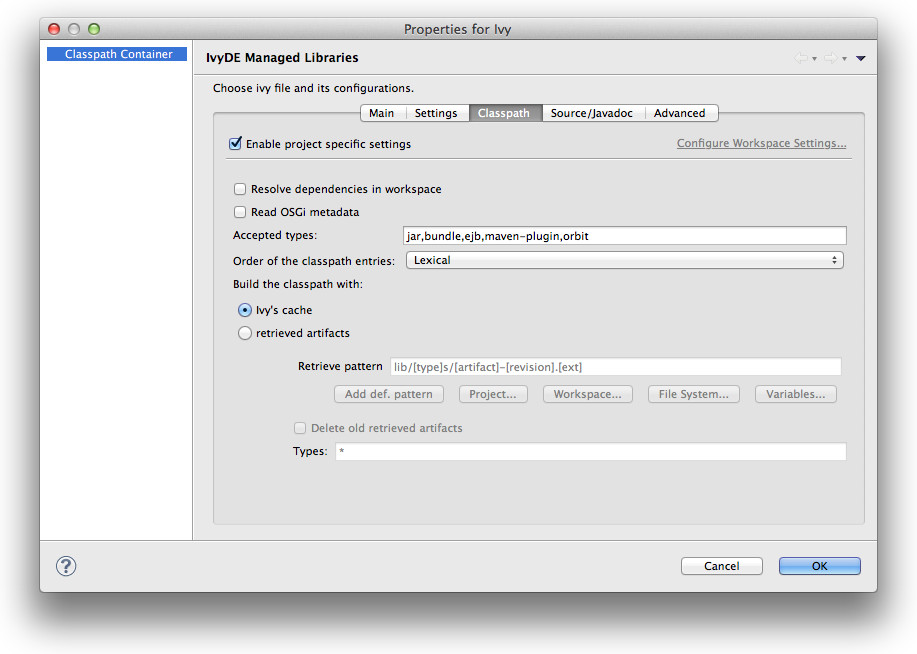
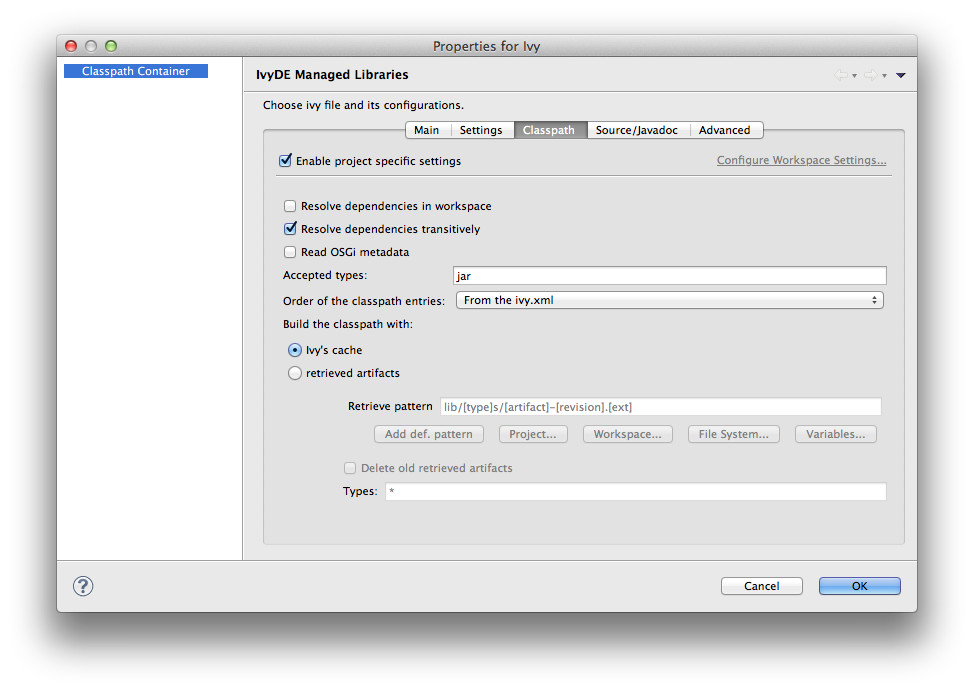
IVYDE-334: support of global transitivity disabling for resolving dependency (thanks to Anton Zagorulko)
git-svn-id: http://svn.apache.org/repos/asf/ant@1538256 13f79535-47bb-0310-9956-ffa450edef68

diff --git a/ivy/ivyde/trunk/doc/preferences.html b/ivy/ivyde/trunk/doc/preferences.html
@@ -61,8 +61,10 @@ The global configuration can be found in the preferences of Eclipse (menu Window
 
 <center><img src="images/pref_classpath.jpg"/></center>
 
-<h4>Resolve dependencies in workpace:</h4>
+<h4>Resolve dependencies in workspace:</h4>
 <p>Apache IvyDE allows Ivy dependencies between projects in the workspace to be realized through project references rather than jars from the repository.  See the <a href="cpc/workspace.html">documentation</a> for further information on this feature.</p>
+<h4>Resolve dependencies transitively</h4>
+<p>If unchecked, the dependencies will be resolved with transitivity disabled regardless to the settings in ivy.xml</p>
 <h4>Read OSGi metadata:</h4>
 <p>If your classpath is based on jars which are actually OSGi bundles, checking this option will make IvyDE read the jar manifests and setup the specific OSGi visibility constraints.</p>
 <h4>Accepted types:</h4>

diff --git a/ivy/ivyde/trunk/doc/release-notes.html b/ivy/ivyde/trunk/doc/release-notes.html
@@ -122,6 +122,7 @@ Here is the list of people who have contributed source code and documentation up
 <li>Nathan Summers</li>
 <li>Phillip Webb</li>
 <li>James Wilkins</li>
+<li>Anton Zagorulko</li>
 </ul>
 
 <h1><a name="changes"></a>List of Changes in this Release</h1>
@@ -136,6 +137,7 @@ List of changes since <a href="/ivy/ivyde/history/2.2.0.beta1/release-notes.html
     <li>NEW: Allow to set the Ivy user directory globally or project by project (IVYDE-311)</li>
     <li>NEW: Add support for the OSGi access rules</li>
     <li>NEW: Source and Javadoc attachements can now be edited jar by jar</li>
+    <li>NEW: Support of global transitivity disabling for resolving dependency (IVYDE-334) (thanks to Anton Zagorulko)</li>
 </ul>
 <ul>
     <li>IMPROVE: The properties file paths can now be edited</li>

diff --git a/ivy/ivyde/trunk/org.apache.ivyde.eclipse/src/java/org/apache/ivyde/internal/eclipse/ui/ClasspathSetupEditor.java b/ivy/ivyde/trunk/org.apache.ivyde.eclipse/src/java/org/apache/ivyde/internal/eclipse/ui/ClasspathSetupEditor.java
@@ -42,6 +42,8 @@ public class ClasspathSetupEditor extends Composite {
             + "Example: jar, zip";
 
     private Button resolveInWorkspaceCheck;
+    
+    private Button transitiveResolveCheck;
 
     private Label alphaOrderLabel;
 
@@ -73,6 +75,13 @@ public class ClasspathSetupEditor extends Composite {
         resolveInWorkspaceCheck.setText("Resolve dependencies in workspace");
         resolveInWorkspaceCheck
                 .setToolTipText("Will replace jars on the classpath with workspace projects");
+
+        transitiveResolveCheck = new Button(this, SWT.CHECK);
+        transitiveResolveCheck.setLayoutData(new GridData(GridData.FILL, GridData.FILL, true,
+                false, 2, 1));
+        transitiveResolveCheck.setText("Resolve dependencies transitively");
+        transitiveResolveCheck
+                .setToolTipText("If uncheck, will resolve dependency with transitivity disabled regardless to the settings in ivy.xml");        
 
         readOSGiMetadataCheck = new Button(this, SWT.CHECK);
         readOSGiMetadataCheck.setLayoutData(new GridData(GridData.FILL, GridData.FILL, true, false,
@@ -128,6 +137,7 @@ public class ClasspathSetupEditor extends Composite {
 
     public void init(ClasspathSetup setup) {
         resolveInWorkspaceCheck.setSelection(setup.isResolveInWorkspace());
+        transitiveResolveCheck.setSelection(setup.isTransitiveResolve());
         readOSGiMetadataCheck.setSelection(setup.isReadOSGiMetadata());
         acceptedTypesText.setText(IvyClasspathUtil.concat(setup.getAcceptedTypes()));
         alphaOrderCheck.select(setup.isAlphaOrder() ? 1 : 0);
@@ -140,6 +150,7 @@ public class ClasspathSetupEditor extends Composite {
     public ClasspathSetup getClasspathSetup() {
         ClasspathSetup setup = new ClasspathSetup();
         setup.setResolveInWorkspace(resolveInWorkspaceCheck.getSelection());
+        setup.setTransitiveResolve(transitiveResolveCheck.getSelection());
         setup.setReadOSGiMetadata(readOSGiMetadataCheck.getSelection());
         setup.setAcceptedTypes(IvyClasspathUtil.split(acceptedTypesText.getText()));
         setup.setAlphaOrder(alphaOrderCheck.getSelectionIndex() == 1);
@@ -152,6 +163,7 @@ public class ClasspathSetupEditor extends Composite {
 
     public void setEnabled(boolean enabled) {
         resolveInWorkspaceCheck.setEnabled(enabled);
+        transitiveResolveCheck.setEnabled(enabled);
         readOSGiMetadataCheck.setEnabled(osgiAvailable && enabled);
         acceptedTypesLabel.setEnabled(enabled);
         acceptedTypesText.setEnabled(enabled);

diff --git a/ivy/ivyde/trunk/org.apache.ivyde.eclipse/src/java/org/apache/ivyde/internal/eclipse/ui/preferences/PreferenceInitializer.java b/ivy/ivyde/trunk/org.apache.ivyde.eclipse/src/java/org/apache/ivyde/internal/eclipse/ui/preferences/PreferenceInitializer.java
@@ -64,6 +64,8 @@ public class PreferenceInitializer extends AbstractPreferenceInitializer {
 
     public static final boolean DEFAULT_RESOLVE_IN_WORKSPACE = false;
 
+    public static final boolean DEFAULT_TRANSITIVE_RESOLVE = true;
+
     private static final boolean DEFAULT_READ_OSGI_METADATA = false;
 
     public static final boolean DEFAULT_RETRIEVED_CLASSPATH = false;
@@ -88,6 +90,7 @@ public class PreferenceInitializer extends AbstractPreferenceInitializer {
         DEFAULT_CLASSPATH_SETUP.setAcceptedTypes(IvyClasspathUtil.split(DEFAULT_ACCEPTED_TYPES));
         DEFAULT_CLASSPATH_SETUP.setAlphaOrder(DEFAULT_ALPHABETICAL_ORDER);
         DEFAULT_CLASSPATH_SETUP.setResolveInWorkspace(DEFAULT_RESOLVE_IN_WORKSPACE);
+        DEFAULT_CLASSPATH_SETUP.setTransitiveResolve(DEFAULT_TRANSITIVE_RESOLVE);
         DEFAULT_CLASSPATH_SETUP.setReadOSGiMetadata(DEFAULT_READ_OSGI_METADATA);
         DEFAULT_CLASSPATH_SETUP.setRetrievedClasspath(DEFAULT_RETRIEVED_CLASSPATH);
         DEFAULT_CLASSPATH_SETUP.setRetrieveSetup(DEFAULT_RETRIEVED_CLASSPATH_SETUP);
@@ -170,6 +173,7 @@ public class PreferenceInitializer extends AbstractPreferenceInitializer {
 
         store.setDefault(PreferenceConstants.ALPHABETICAL_ORDER, DEFAULT_ALPHABETICAL_ORDER);
         store.setDefault(PreferenceConstants.RESOLVE_IN_WORKSPACE, DEFAULT_RESOLVE_IN_WORKSPACE);
+        store.setDefault(PreferenceConstants.TRANSITIVE_RESOLVE, DEFAULT_TRANSITIVE_RESOLVE);
         store.setDefault(PreferenceConstants.READ_OSGI_METADATA, DEFAULT_READ_OSGI_METADATA);
         store.setDefault(PreferenceConstants.RESOLVE_BEFORE_LAUNCH, DEFAULT_RESOLVE_BEFORE_LAUNCH);
         store.setDefault(PreferenceConstants.PROPERTY_FILES, DEFAULT_PROPERTY_FILES);

diff --git a/ivy/ivyde/trunk/org.apache.ivyde.eclipse/src/java/org/apache/ivyde/internal/eclipse/cpcontainer/IvyClasspathContainerConfAdapter.java b/ivy/ivyde/trunk/org.apache.ivyde.eclipse/src/java/org/apache/ivyde/internal/eclipse/cpcontainer/IvyClasspathContainerConfAdapter.java
@@ -182,6 +182,9 @@ public final class IvyClasspathContainerConfAdapter {
             } else if (parameter[0].equals("resolveInWorkspace")) {
                 classpathSetup.setResolveInWorkspace(Boolean.valueOf(value).booleanValue());
                 conf.setClassthProjectSpecific(true);
+            } else if (parameter[0].equals("transitiveResolve")) {
+                classpathSetup.setTransitiveResolve(Boolean.valueOf(value).booleanValue());
+                conf.setClassthProjectSpecific(true);
             } else if (parameter[0].equals("readOSGiMetadata")) {
                 classpathSetup.setReadOSGiMetadata(Boolean.valueOf(value).booleanValue());
                 conf.setClassthProjectSpecific(true);
@@ -413,6 +416,7 @@ public final class IvyClasspathContainerConfAdapter {
                 append(path, "acceptedTypes", setup.getAcceptedTypes());
                 append(path, "alphaOrder", setup.isAlphaOrder());
                 append(path, "resolveInWorkspace", setup.isResolveInWorkspace());
+                append(path, "transitiveResolve", setup.isTransitiveResolve());
                 append(path, "readOSGiMetadata", setup.isReadOSGiMetadata());
                 append(path, "retrievedClasspath", setup.isRetrievedClasspath());
                 if (setup.isRetrievedClasspath()) {

diff --git a/ivy/ivyde/trunk/org.apache.ivyde.eclipse/src/java/org/apache/ivyde/internal/eclipse/ui/preferences/IvyDEPreferenceStoreHelper.java b/ivy/ivyde/trunk/org.apache.ivyde.eclipse/src/java/org/apache/ivyde/internal/eclipse/ui/preferences/IvyDEPreferenceStoreHelper.java
@@ -74,6 +74,7 @@ public class IvyDEPreferenceStoreHelper {
     public ClasspathSetup getClasspathSetup() {
         ClasspathSetup setup = new ClasspathSetup();
         setup.setResolveInWorkspace(prefStore.getBoolean(PreferenceConstants.RESOLVE_IN_WORKSPACE));
+        setup.setTransitiveResolve(prefStore.getBoolean(PreferenceConstants.TRANSITIVE_RESOLVE));
         setup.setReadOSGiMetadata(prefStore.getBoolean(PreferenceConstants.READ_OSGI_METADATA));
         setup.setAcceptedTypes(IvyClasspathUtil.split(prefStore
                 .getString(PreferenceConstants.ACCEPTED_TYPES)));
@@ -92,6 +93,7 @@ public class IvyDEPreferenceStoreHelper {
 
     public void setClasspathSetup(ClasspathSetup setup) {
         prefStore.setValue(PreferenceConstants.RESOLVE_IN_WORKSPACE, setup.isResolveInWorkspace());
+        prefStore.setValue(PreferenceConstants.TRANSITIVE_RESOLVE, setup.isTransitiveResolve());
         prefStore.setValue(PreferenceConstants.READ_OSGI_METADATA, setup.isReadOSGiMetadata());
         prefStore.setValue(PreferenceConstants.ACCEPTED_TYPES,
             IvyClasspathUtil.concat(setup.getAcceptedTypes()));

diff --git a/ivy/ivyde/trunk/org.apache.ivyde.eclipse/src/java/org/apache/ivyde/internal/eclipse/resolve/IvyResolver.java b/ivy/ivyde/trunk/org.apache.ivyde.eclipse/src/java/org/apache/ivyde/internal/eclipse/resolve/IvyResolver.java
@@ -81,6 +81,8 @@ public class IvyResolver {
     private boolean useCacheOnly = IvyPlugin.getPreferenceStoreHelper().isOffline();
 
     private boolean useExtendedResolveId = false;
+    
+    private boolean transitiveResolve = true;
 
     public IvyResolver(String ivyXmlPath, List confInput, IProject project) {
         this.ivyXmlPath = ivyXmlPath;
@@ -106,6 +108,10 @@ public class IvyResolver {
 
     public void setUseCacheOnly(boolean useCacheOnly) {
         this.useCacheOnly = useCacheOnly;
+    }
+
+    public void setTransitiveResolve(boolean transitiveResolve) {
+        this.transitiveResolve = transitiveResolve;
     }
 
     public String getIvyXmlPath() {
@@ -245,6 +251,7 @@ public class IvyResolver {
         resolveOption.setValidate(ivy.getSettings().doValidate());
         resolveOption.setUseCacheOnly(useCacheOnly);
         resolveOption.setResolveId(IvyClasspathUtil.buildResolveId(useExtendedResolveId, md));
+        resolveOption.setTransitive(transitiveResolve);
         ResolveReport report = ivy.getResolveEngine().resolve(md, resolveOption);
 
         if (report.hasError()) {

diff --git a/ivy/ivyde/trunk/org.apache.ivyde.eclipse/src/java/org/apache/ivyde/eclipse/cp/ClasspathSetup.java b/ivy/ivyde/trunk/org.apache.ivyde.eclipse/src/java/org/apache/ivyde/eclipse/cp/ClasspathSetup.java
@@ -34,6 +34,8 @@ public class ClasspathSetup {
 
     private boolean readOSGiMetadata;
 
+    private boolean transitiveResolve = true;
+
     /**
      * Default constructor
      */
@@ -48,6 +50,7 @@ public class ClasspathSetup {
         this.retrievedClasspath = setup.retrievedClasspath;
         this.retrieveSetup.set(setup.retrieveSetup);
         this.readOSGiMetadata = setup.readOSGiMetadata;
+        this.transitiveResolve = setup.transitiveResolve;
     }
 
     public boolean isResolveInWorkspace() {
@@ -96,5 +99,13 @@ public class ClasspathSetup {
 
     public void setReadOSGiMetadata(boolean readOSGiMetadata) {
         this.readOSGiMetadata = readOSGiMetadata;
+    }
+
+    public boolean isTransitiveResolve() {
+        return transitiveResolve;
+    }
+
+    public void setTransitiveResolve(boolean transitiveResolve) {
+        this.transitiveResolve = transitiveResolve;
     }
 }

diff --git a/ivy/ivyde/trunk/org.apache.ivyde.eclipse/src/java/org/apache/ivyde/internal/eclipse/IvyDERuntimeClasspathEntryResolver.java b/ivy/ivyde/trunk/org.apache.ivyde.eclipse/src/java/org/apache/ivyde/internal/eclipse/IvyDERuntimeClasspathEntryResolver.java
@@ -94,7 +94,9 @@ public class IvyDERuntimeClasspathEntryResolver implements IRuntimeClasspathEntr
             ResolveRequest request = new ResolveRequest(resolver, ivycp.getState());
             request.setForceFailOnError(true);
             request.setInWorkspace(ivycp.getConf().getInheritedClasspathSetup()
-                    .isResolveInWorkspace());
+                .isResolveInWorkspace());
+            request.setTransitive(ivycp.getConf().getInheritedClasspathSetup()
+                    .isTransitiveResolve());
             IvyResolveJob resolveJob = IvyPlugin.getDefault().getIvyResolveJob();
             IStatus status = resolveJob.launchRequest(request, new NullProgressMonitor());
             if (status.getCode() != IStatus.OK) {

diff --git a/ivy/ivyde/trunk/org.apache.ivyde.eclipse/src/java/org/apache/ivyde/internal/eclipse/cpcontainer/IvyClasspathContainerImpl.java b/ivy/ivyde/trunk/org.apache.ivyde.eclipse/src/java/org/apache/ivyde/internal/eclipse/cpcontainer/IvyClasspathContainerImpl.java
@@ -124,6 +124,7 @@ public class IvyClasspathContainerImpl implements IClasspathContainer, IvyClassp
         ResolveRequest request = new ResolveRequest(new IvyClasspathResolver(this,
                 usePreviousResolveIfExist), getState());
         request.setInWorkspace(getConf().getInheritedClasspathSetup().isResolveInWorkspace());
+        request.setTransitive(getConf().getInheritedClasspathSetup().isTransitiveResolve());
         IvyResolveJob resolveJob = IvyPlugin.getDefault().getIvyResolveJob();
         if (monitor != null) {
             return resolveJob.launchRequest(request, monitor);

diff --git a/ivy/ivyde/trunk/org.apache.ivyde.eclipse/src/java/org/apache/ivyde/internal/eclipse/cpcontainer/ClasspathEntriesResolver.java b/ivy/ivyde/trunk/org.apache.ivyde.eclipse/src/java/org/apache/ivyde/internal/eclipse/cpcontainer/ClasspathEntriesResolver.java
@@ -52,6 +52,7 @@ public class ClasspathEntriesResolver extends IvyResolver {
         this.conf = ivycp.getConf();
         setUsePreviousResolveIfExist(ivycp.getConf().getInheritedAdvancedSetup().isUseExtendedResolveId());
         setUsePreviousResolveIfExist(usePreviousResolveIfExist);
+        setTransitiveResolve(conf.getInheritedClasspathSetup().isTransitiveResolve());
         if (conf.getInheritedClasspathSetup().isRetrievedClasspath()) {
             RetrieveSetup setup = conf.getInheritedClasspathSetup().getRetrieveSetup();
             setRetrievePattern(setup.getRetrievePattern());

diff --git a/ivy/ivyde/trunk/org.apache.ivyde.eclipse/src/java/org/apache/ivyde/internal/eclipse/resolve/ResolveRequest.java b/ivy/ivyde/trunk/org.apache.ivyde.eclipse/src/java/org/apache/ivyde/internal/eclipse/resolve/ResolveRequest.java
@@ -27,6 +27,8 @@ public class ResolveRequest {
 
     private boolean inWorkspace = false;
 
+    private boolean transitive = true;
+
     private boolean forceFailOnError = false;
 
     private boolean resolveFailed = false;
@@ -58,6 +60,14 @@ public class ResolveRequest {
 
     public boolean isInWorkspace() {
         return inWorkspace;
+    }
+
+    public void setTransitive(boolean transitive) {
+        this.transitive = transitive;
+    }
+
+    public boolean isTransitive() {
+        return transitive;
     }
 
     public void setResolveFailed(boolean resolveFailed) {
